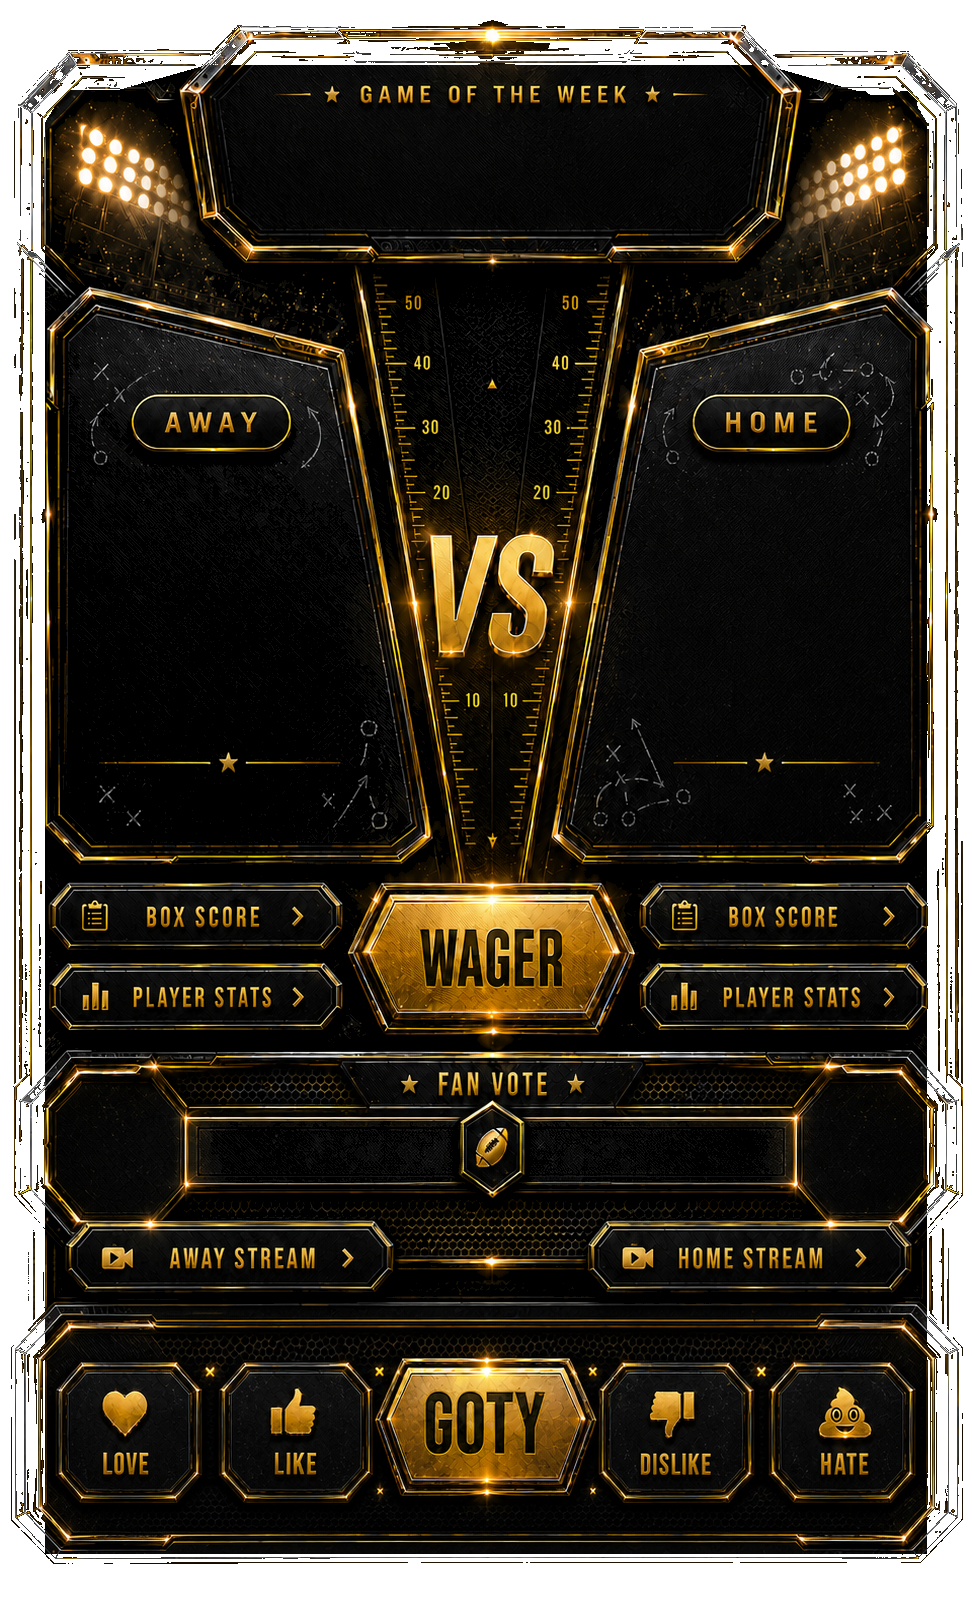
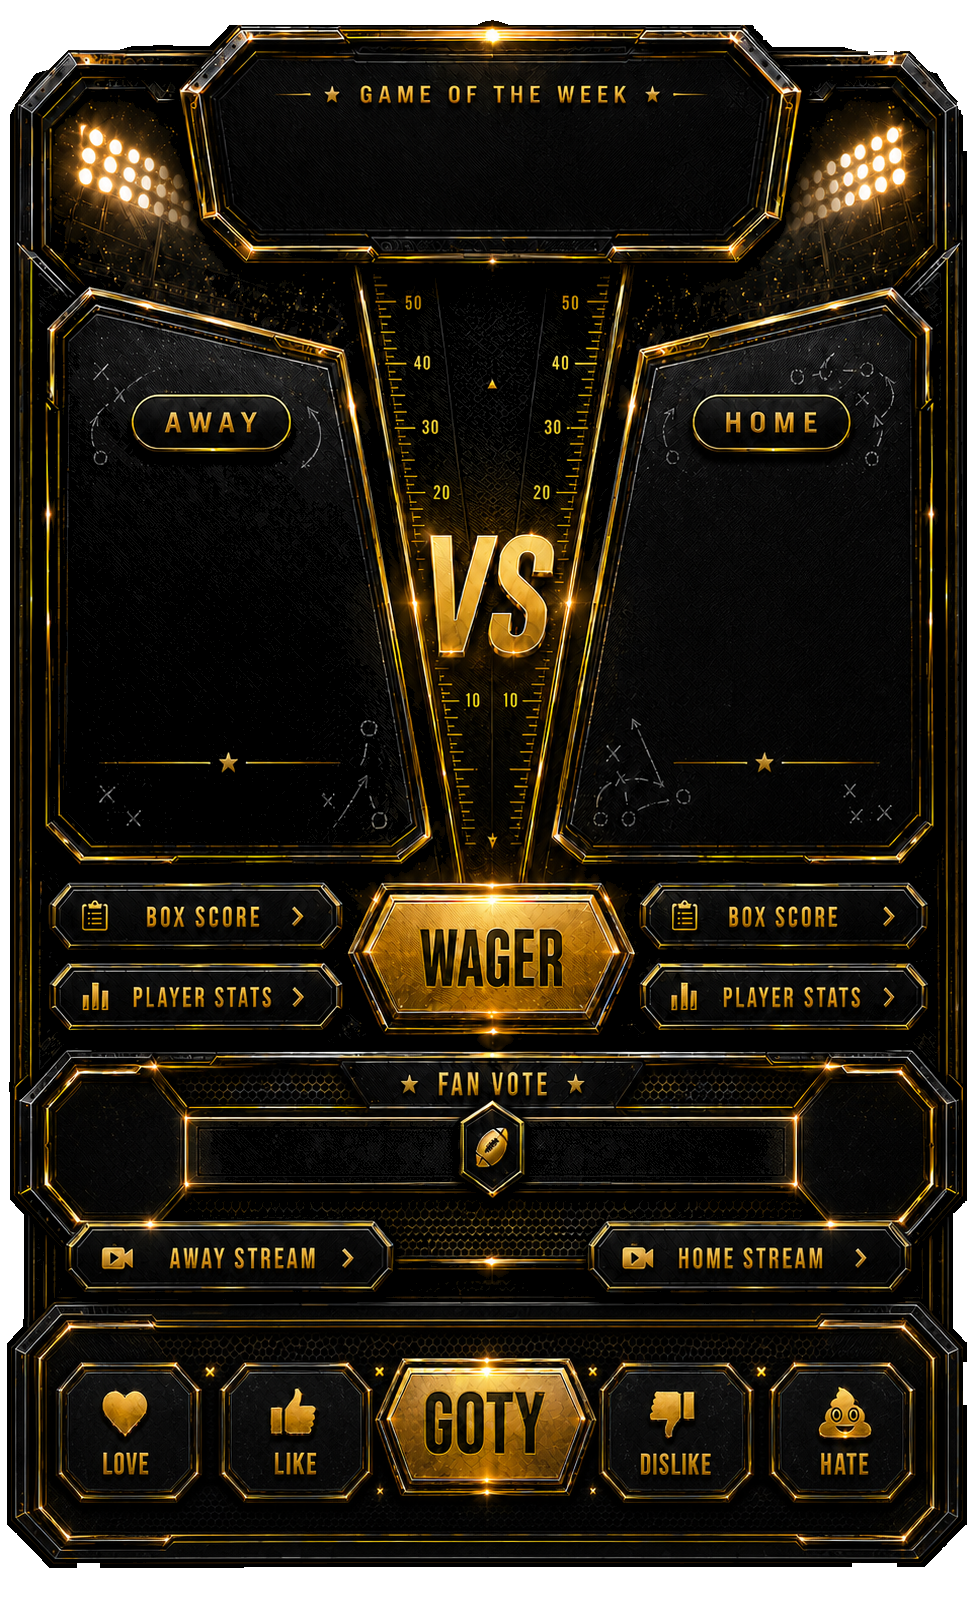
fix(web): restore GOTW texture and align vote glow

Changed region(s): [[0.0, 0.0309, 0.9568, 0.9883], [0.5247, 0.0, 1.0, 0.9574], [0.216, 0.0, 0.4938, 0.0618]]

diff --git a/apps/web/src/styles/hub.css b/apps/web/src/styles/hub.css
@@ -2237,26 +2237,26 @@
 }
 .hub-matchup-card.gotw .hub-matchup-board .hub-team-side-vote.away::before {
   clip-path:polygon(
-    12.82% 2.98%,
-    75.84% 10.29%,
-    80.42% 13.76%,
-    92.28% 91.64%,
-    86.88% 96.03%,
-    14.16% 96.03%,
-    6.63% 92%,
-    6.9% 6.45%
+    11.47% 1.33%,
+    77.45% 9.01%,
+    82.57% 12.85%,
+    95.25% 93.29%,
+    89.05% 98.95%,
+    12.01% 98.95%,
+    4.2% 93.47%,
+    5.01% 5.17%
   ) !important;
 }
 .hub-matchup-card.gotw .hub-matchup-board .hub-team-side-vote.home::before {
   clip-path:polygon(
-    23.35% 10.84%,
-    86.37% 1.51%,
-    92.03% 5.54%,
-    92.56% 91.46%,
-    87.99% 95.66%,
-    9.89% 95.66%,
-    4.5% 91.46%,
-    19.58% 13.58%
+    20.66% 9.56%,
+    87.99% .05%,
+    94.45% 4.44%,
+    94.99% 93.47%,
+    89.6% 98.4%,
+    8.27% 98.4%,
+    1.81% 93.28%,
+    17.16% 13.03%
   ) !important;
 }
 .hub-matchup-card.gotw .hub-matchup-board .hub-team-side-vote:hover:not(:disabled),
@@ -2270,5 +2270,12 @@
   background:rgba(217,165,33,.075) !important;
   filter:drop-shadow(0 0 2px #ffe27a) drop-shadow(0 0 4px rgba(225,171,38,.48)) !important;
   box-shadow:inset 0 0 26px rgba(217,165,33,.16) !important;
+}
+@media (hover:none), (pointer:coarse) {
+  .hub-matchup-card.gotw .hub-matchup-board .hub-team-side-vote:hover:not(.active)::before {
+    background:transparent !important;
+    filter:none !important;
+    box-shadow:none !important;
+  }
 }
 